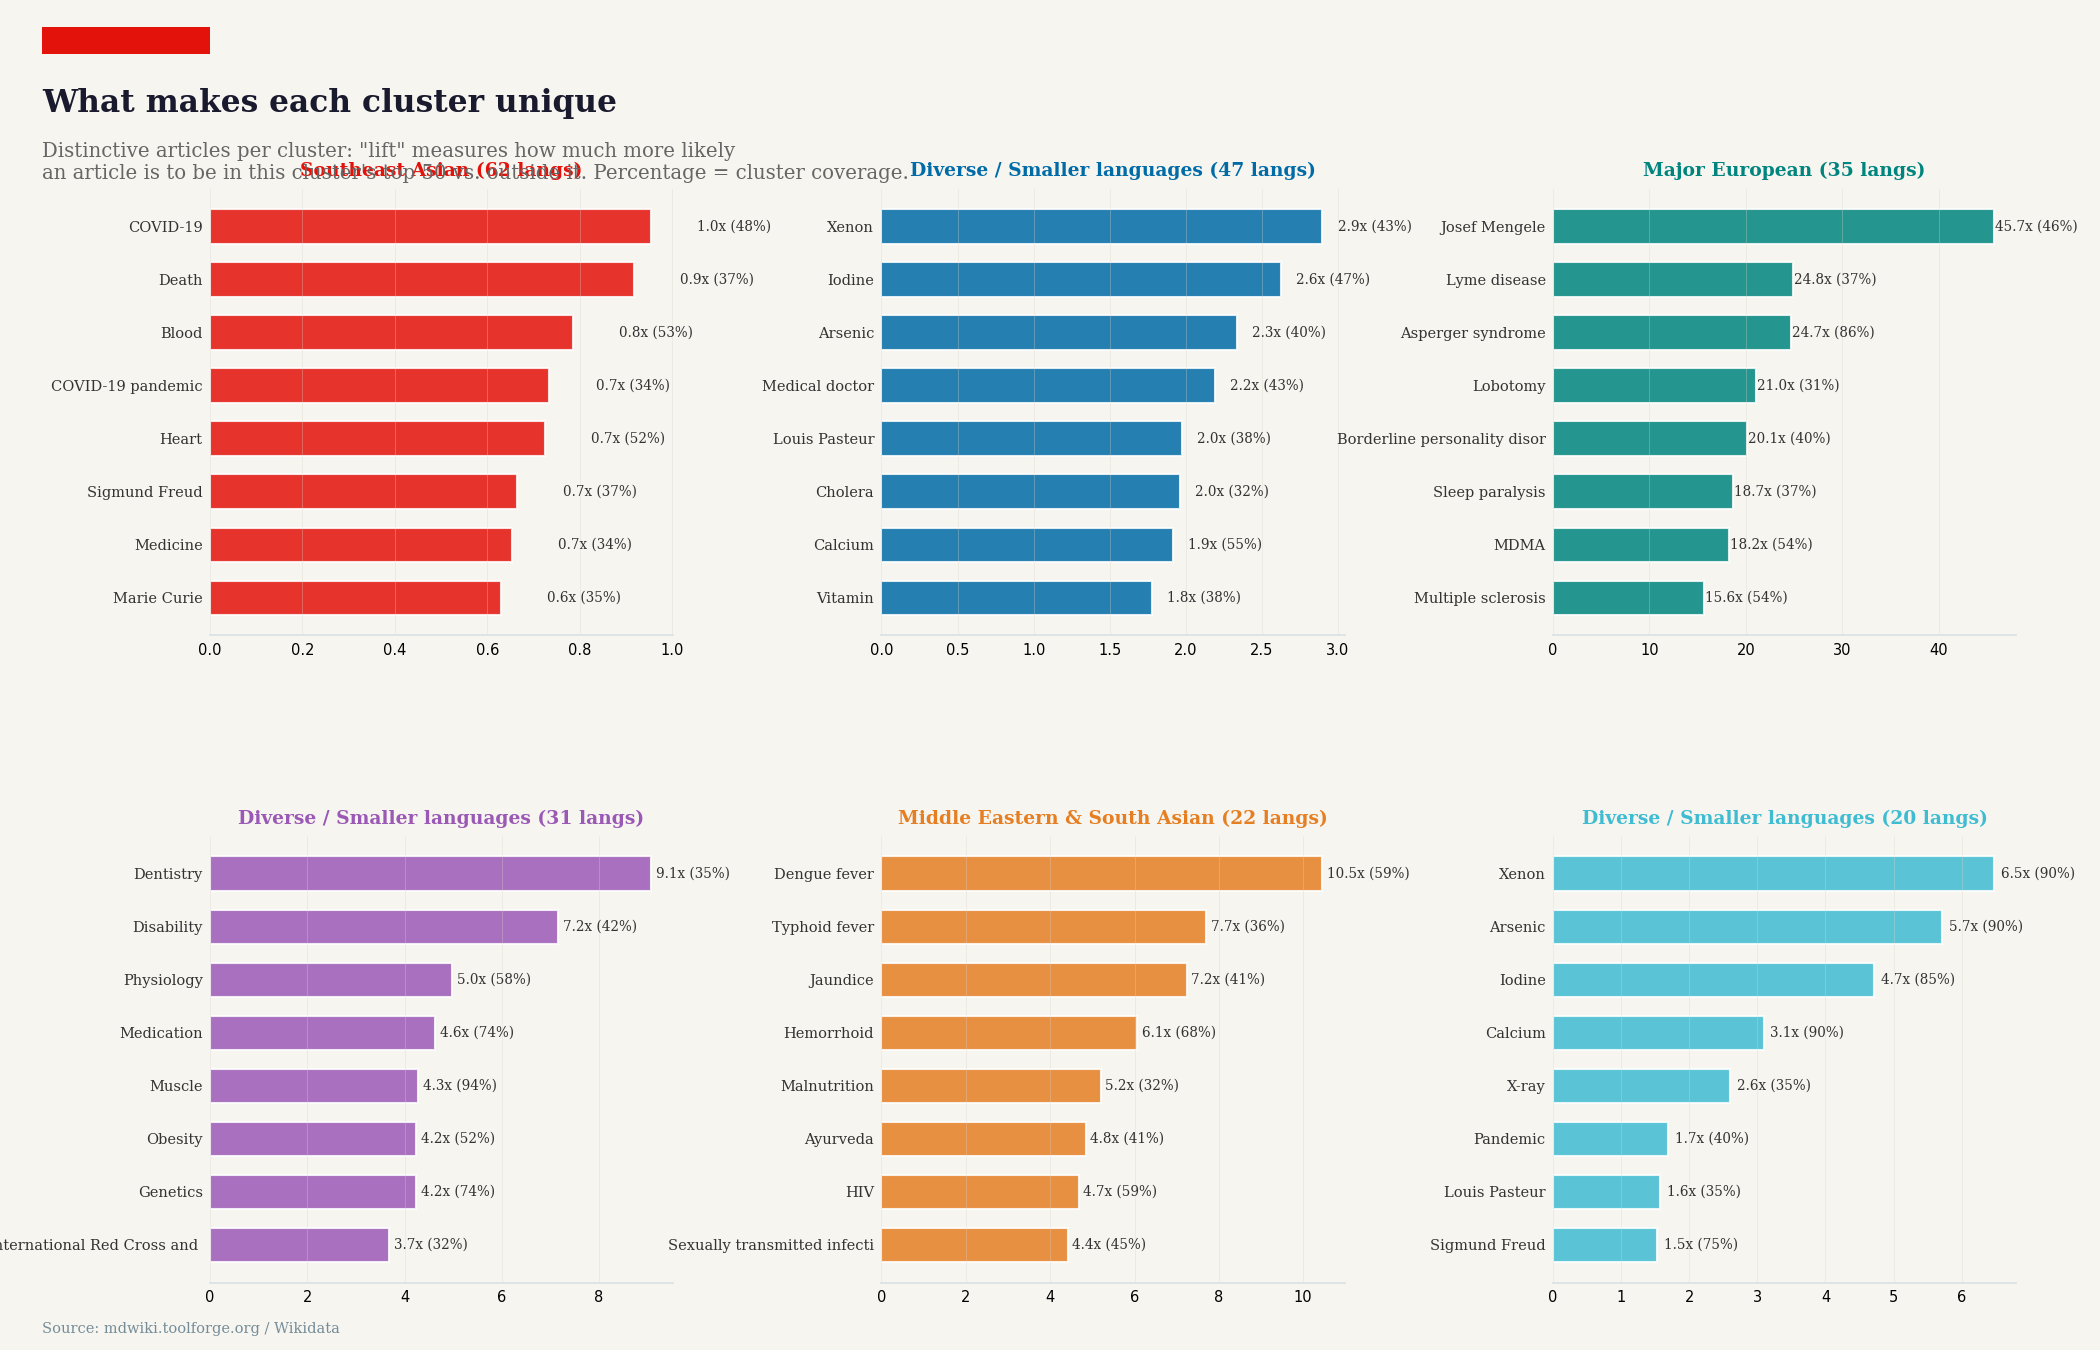
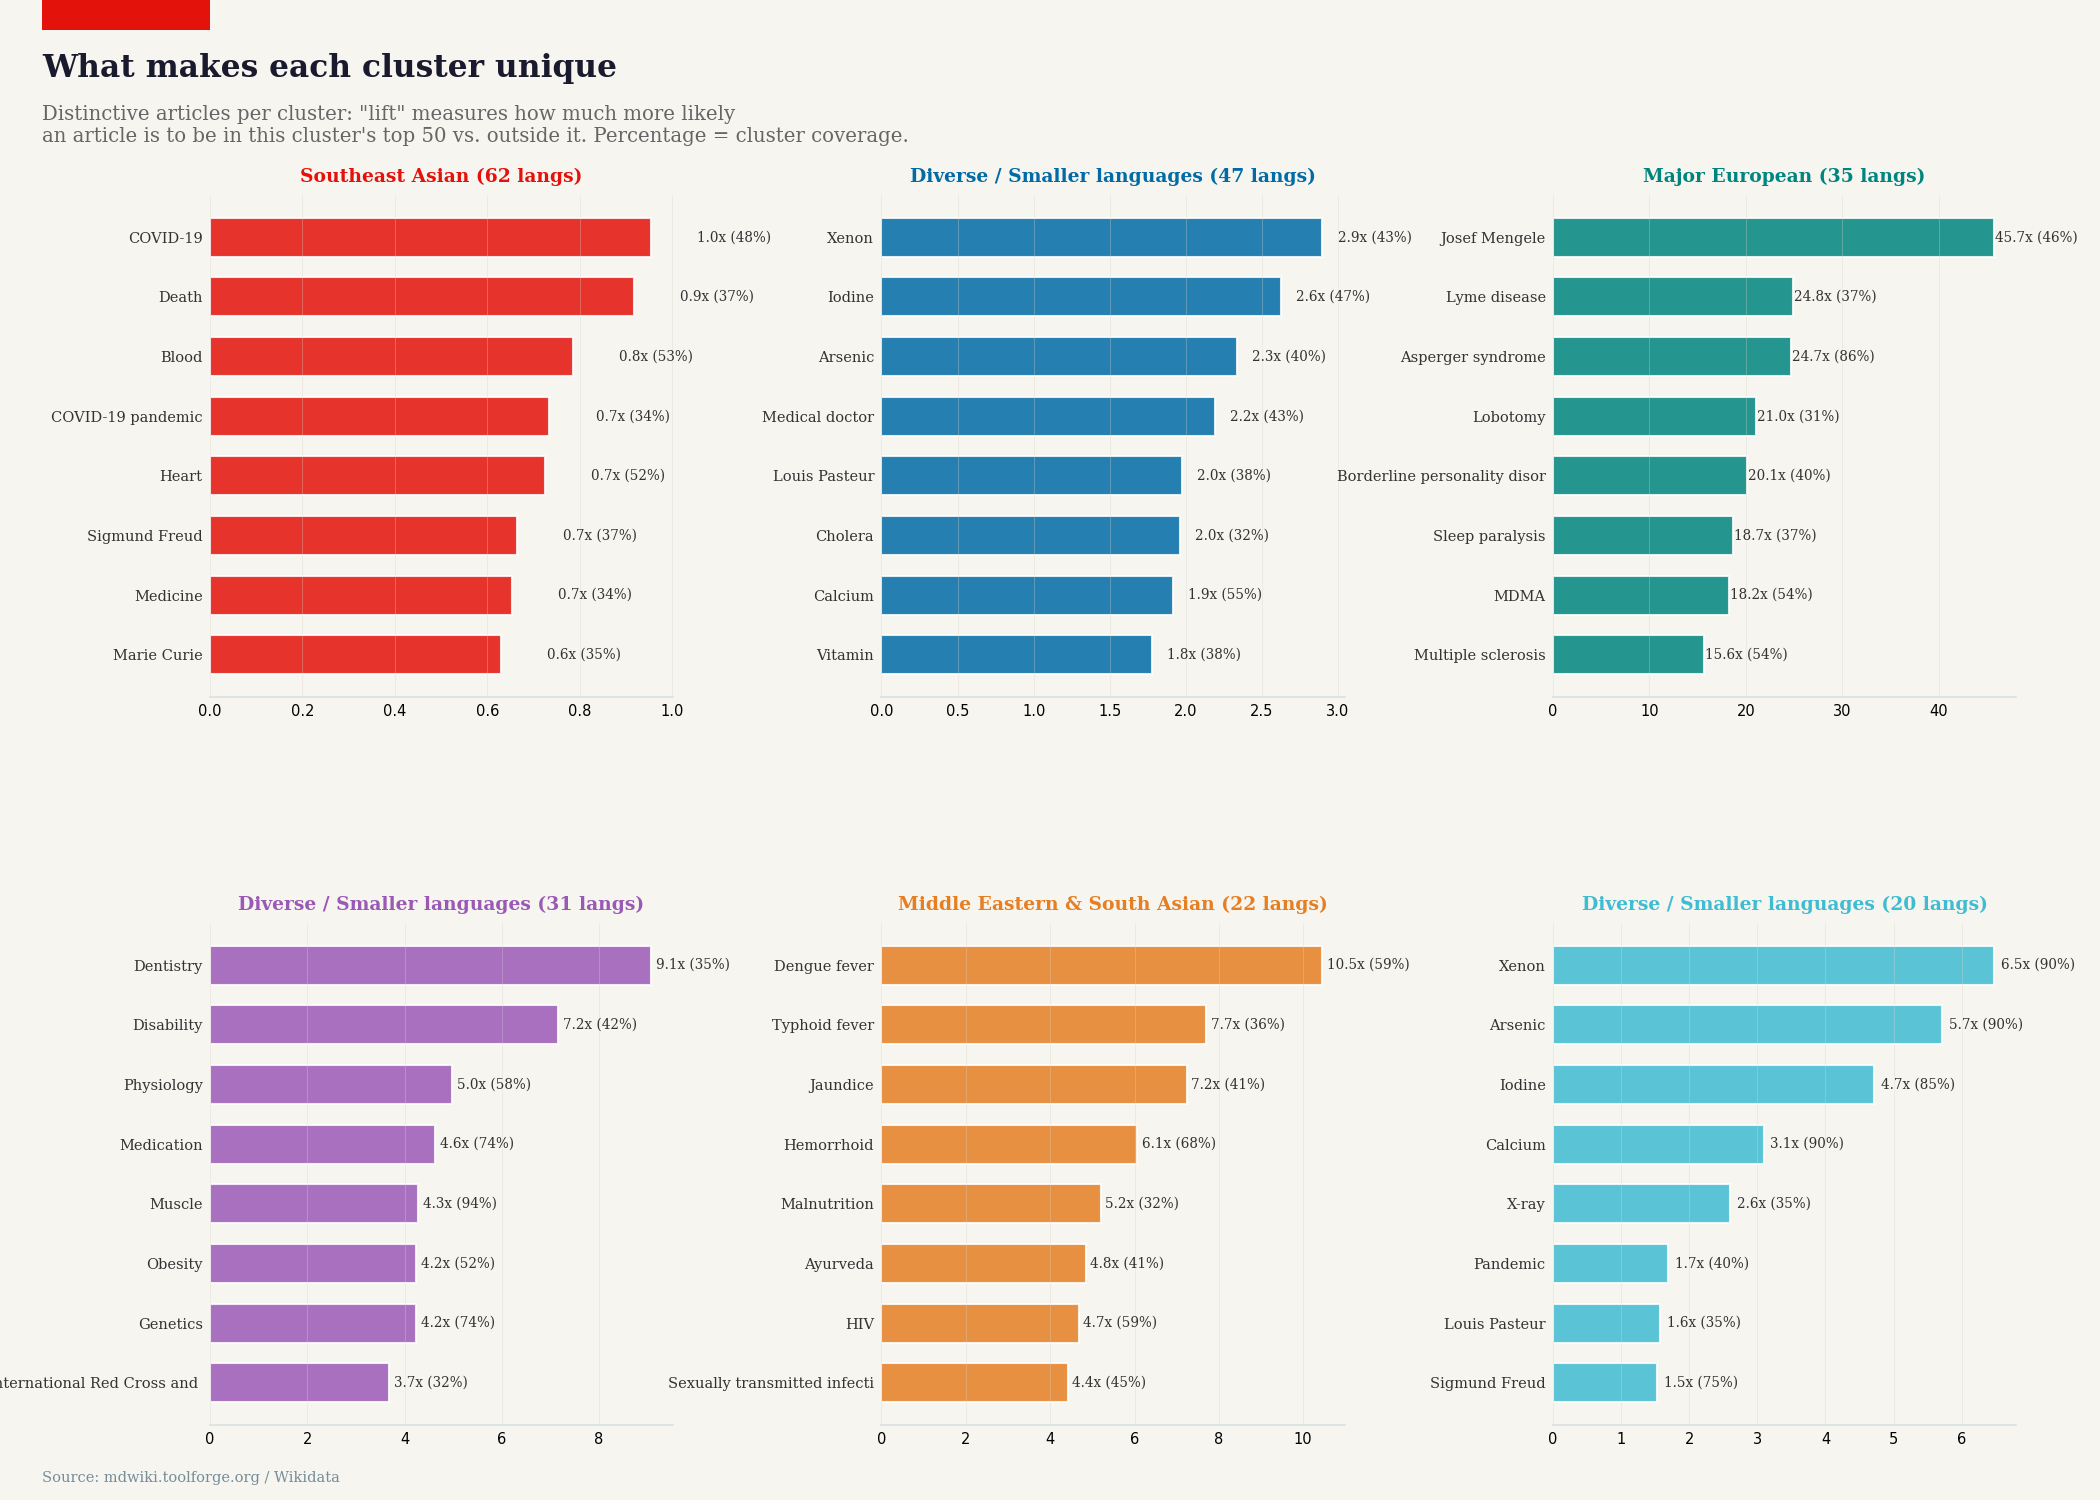
Fix fig10 subtitle overlapping graph content
Increased figure height and adjusted title/subtitle positioning
to prevent the two-line subtitle from masking the subplot area.

diff --git a/code/05_cluster_analysis.py b/code/05_cluster_analysis.py
@@ -529,7 +529,7 @@ print("Generating Fig 10: Cluster signature articles...")
 # Pick the 4 most interesting/large clusters
 show_clusters = sorted(cluster_names.keys(), key=lambda c: cluster_info[c]['size'], reverse=True)[:6]
 
-fig, axes = plt.subplots(2, 3, figsize=(14, 9))
+fig, axes = plt.subplots(2, 3, figsize=(14, 10))
 axes = axes.flatten()
 
 for idx, cid in enumerate(show_clusters):
@@ -572,18 +572,18 @@ for idx, cid in enumerate(show_clusters):
 
 fig.patch.set_facecolor(ECO_BG)
 fig.patches.append(mpatches.FancyBboxPatch(
-    (0.02, 0.96), 0.08, 0.02, boxstyle="square,pad=0",
+    (0.02, 0.98), 0.08, 0.02, boxstyle="square,pad=0",
     facecolor=ECO_RED, edgecolor='none', transform=fig.transFigure, zorder=10))
-fig.text(0.02, 0.935, 'What makes each cluster unique',
+fig.text(0.02, 0.965, 'What makes each cluster unique',
          fontsize=15, fontweight='bold', color=ECO_DARK, fontfamily='serif',
          ha='left', va='top', transform=fig.transFigure)
-fig.text(0.02, 0.895, 'Distinctive articles per cluster: "lift" measures how much more likely\nan article is to be in this cluster\'s top 50 vs. outside it. Percentage = cluster coverage.',
+fig.text(0.02, 0.930, 'Distinctive articles per cluster: "lift" measures how much more likely\nan article is to be in this cluster\'s top 50 vs. outside it. Percentage = cluster coverage.',
          fontsize=9.5, color=ECO_SUBTITLE, fontfamily='serif',
          ha='left', va='top', transform=fig.transFigure)
 fig.text(0.02, 0.01, 'Source: mdwiki.toolforge.org / Wikidata', fontsize=7,
          color=ECO_GREY, fontfamily='serif', ha='left', va='bottom', transform=fig.transFigure)
 
-plt.subplots_adjust(top=0.86, bottom=0.05, left=0.10, right=0.96, hspace=0.45, wspace=0.45)
+plt.subplots_adjust(top=0.87, bottom=0.05, left=0.10, right=0.96, hspace=0.45, wspace=0.45)
 fig.savefig(os.path.join(OUTPUT_DIR, 'eco_fig10_cluster_signatures.png'), dpi=150, facecolor=ECO_BG)
 plt.close()
 print("  Saved eco_fig10")
